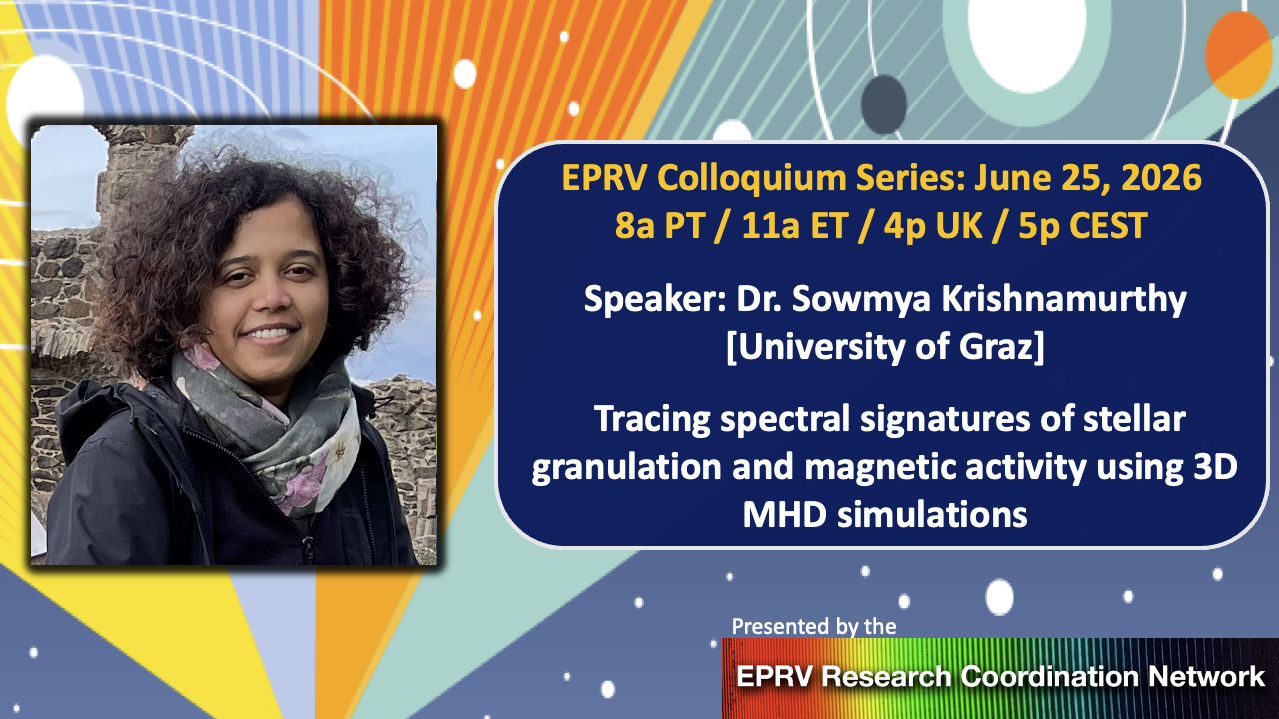
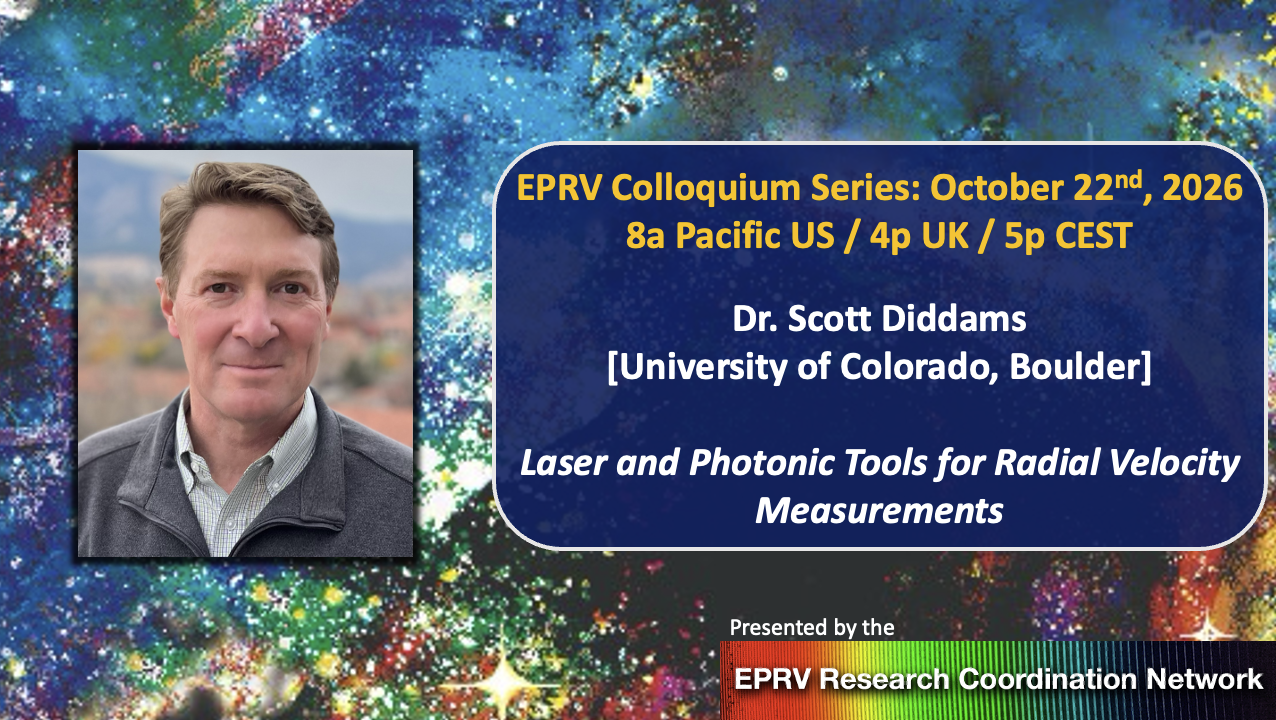
Adding Diddams colloquium details

diff --git a/events/eprv-colloquia/index.html b/events/eprv-colloquia/index.html
@@ -21,7 +21,29 @@
             <h2>RCN Colloquia</h2>
         </header>
 
-            <section>
+
+        <section>
+            <h3>Next EPRV RCN Colloquium: Thursday, Oct 22nd @ 8am Pacific US / 4pm UK</h3>
+            <h4>Connection details provided via RCN emails and Google Calendar</h4>
+            <h4>See below for full yearly schedule & recordings of past colloquia</h4>
+            <hr>
+            <img class="agenda-img" src="../../siteimages/RCN_ColloquiumAd.png" alt="RCN Colloquium Ad">
+            <p><b>Abstract:</b> In this talk, I will highlight instrumentation that leverages near-infrared photonic tools to generate frequency comb calibrators for state-of-the-art radial velocity spectrographs. 
+                In our first endeavor along these lines, we combined robust telecom electrooptic modulators with nonlinear silicon nitride nanophotonics to construct a 30 GHz frequency comb covering 
+                800 to 1300 nm for the Habitable Zone Planet Finder (HPF).  This comb calibrator has run remotely 24/7 for nearly 9 years and is an integral part of the HPF that is available nightly for observations.
+                <br><br>
+                Building on this same technological blueprint, we aim to “go blue” in the quest for finding Earth analogs.  In our new efforts, we use a similar electrooptic engine for a 20 GHz comb but have adopted 
+                lithium niobate as the nanophotonic platform to translate the spectral coverage across the visible to wavelengths as short at 350 nm. I will describe the status of the instrumentation development, 
+                including the challenges and promises associated with nanophotonic lithium niobate. A near term goal is a trial run of the technology at the Keck Planet Finder in 2027. Although we are not actively 
+                pursuing it at this time, the same lithium niobate platform could provide spectral calibration coverage beyond 3000 nm. 
+                <br><br>
+                Finally, I will briefly describe laser spectroscopy approaches that borrow from quantum sensing and atomic clocks to realize sub-meter-per-second radial velocity precision on a single absorption feature. 
+                With thermal heterodyne detection, we have locked the frequency of a laser to a solar iron line at 1565 nm. The frequency of the laser is counted with an optical frequency comb to create a “solar optical 
+                clock” that tracks the relative Earth-Sun velocity with 30 cm/s precision.
+                </p>
+        </section>
+
+        <section>
                 <p>
                     RCN Colloquia are generally scheduled for the 4th Thursday of the month at 8am Pacific US Time though we try to shift to avoid major holidays/conferences. If the speaker agrees,
                     recordings are posted to our <a href="https://www.youtube.com/@EPRVRCN" target="_blank" rel="noopener">YouTube Channel</a> and listed

diff --git a/announcements.html b/announcements.html
@@ -3,22 +3,27 @@
   <hr>
 
   <article class="announcement-item">
+    <h4><a href="/events/eprv-colloquia/">Next EPRV RCN Colloquium</a></h4>
+    <p class="announcement-meta">Thursday, Oct 22nd @ 8am Pacific US / 4pm UK feat. Scott Diddams [University of Colorado Boulder]</p>
+    <p>See the <a href="/events/eprv-colloquia/">RCN Colloquium page</a> for talk details, logistics, and full schedule!</p>
+  </article>
+
+
+  <article class="announcement-item">
     <h4><a href="/events/eprv-journal-clubs/">Next EPRV Journal Club</a></h4>
-    <p class="announcement-meta">Thursday, Oct 8th @ 8am Pacific US / 4pm UK</p>
+    <p class="announcement-meta">Thursday, Nov 12th @ 8am Pacific US / 4pm UK</p>
+<!---
     <p>October Papers:
       <ul>
         <li><a href="https://ui.adsabs.harvard.edu/abs/2026A%26A...710A.194B/abstract">Blanco-Pozo et al. 2026</a></li>
         <li><a href="https://ui.adsabs.harvard.edu/abs/2026AJ....171..124E/abstract">Ejaz et al. 2026</a></li>
         <li><a href="https://ui.adsabs.harvard.edu/abs/2026arXiv260917693L/abstract">Lubin et al. In Review</a></li>
       </ul>
+    </p>
+    -->
+    <p>
       See the <a href="/events/eprv-journal-clubs/">Journal Club page</a> for details and logistics!
     </p>
-  </article>
-
-  <article class="announcement-item">
-    <h4><a href="/events/eprv-colloquia/">2026-2027 EPRV Colloquium Schedule Announced</a></h4>
-    <p class="announcement-meta">Fourth Thursday of the month at 8am Pacific US / 4pm UK</p>
-    <p>See the <a href="/events/eprv-colloquia/">RCN Colloquium page</a> for full schedule and logistics!</p>
   </article>
 
   <article class="announcement-item">

diff --git a/navbar.html b/navbar.html
@@ -1,7 +1,7 @@
 <nav id="mainNav">
   <ul class="navbar">
     <li class="nav-brand"><a href="/"><span class="nav-brand-text">EPRV RCN</span></a></li>
-    <li><a href="/">Home</a></li>
+    <!---<li><a href="/">Home</a></li>-->
 
     <li class="has-submenu">
       <a href="/about">About</a>
